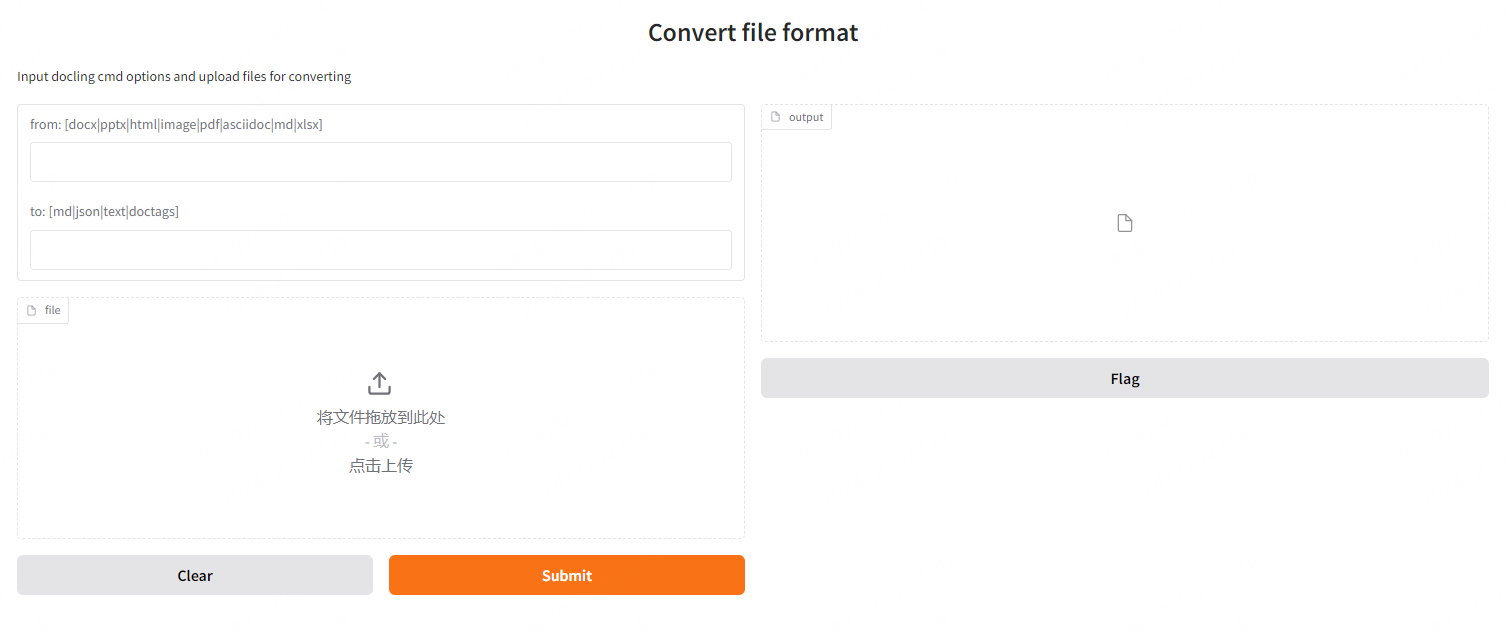
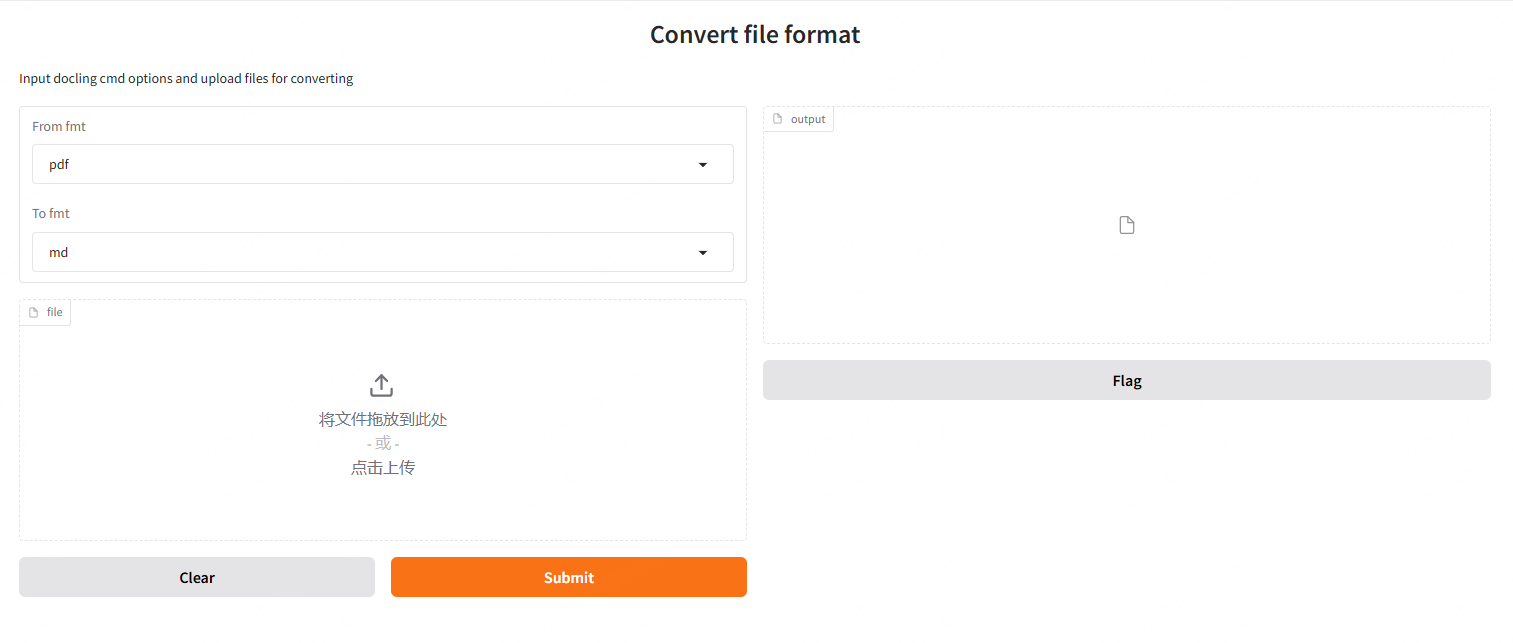
update docling

diff --git a/applications/file-processor/docling/src/readme.md b/applications/file-processor/docling/src/readme.md
@@ -28,10 +28,6 @@ nas
 
 在控制台完成业务功能部署，完成会出现触发器url。 此时，使用浏览器或者 curl 工具， 就可以对触发器url进行请求。
 
-## NAS 配置
-
-我们为 docling 配置了专门的目录 /tmp/output ，只需将此目录挂载到 NAS 上，docling 就会将转换生成的文件保存到此目录
-
 ## 使用docling
 
 ![image-20241223221943174](https://github.com/Qihoo360/fc-templates/blob/feature/fc-app-test/applications/file-processor/docling/src/images/image-20241223221943174.png?raw=true)
@@ -40,7 +36,7 @@ nas
 
 ![image-20241223222200258](https://github.com/Qihoo360/fc-templates/blob/feature/fc-app-test/applications/file-processor/docling/src/images/image-20241223222200258.png?raw=true)
 
-* 在 from 文本框内输入上传的文件的类型， 在 to 文本框内输入转换后的文件类型。from 文本框为空时，则默认为自动检测输入文件类型； to 文本框为空时， 则默认转换为 markdown 文件
+* 在 from 下拉列表中选择上传的文件的类型， 在 to 下拉列表中选择转换后的文件类型。
 
 * 击 Submit 提交后即可开始文件转换，右侧 output 窗口内会显示进度：
 
